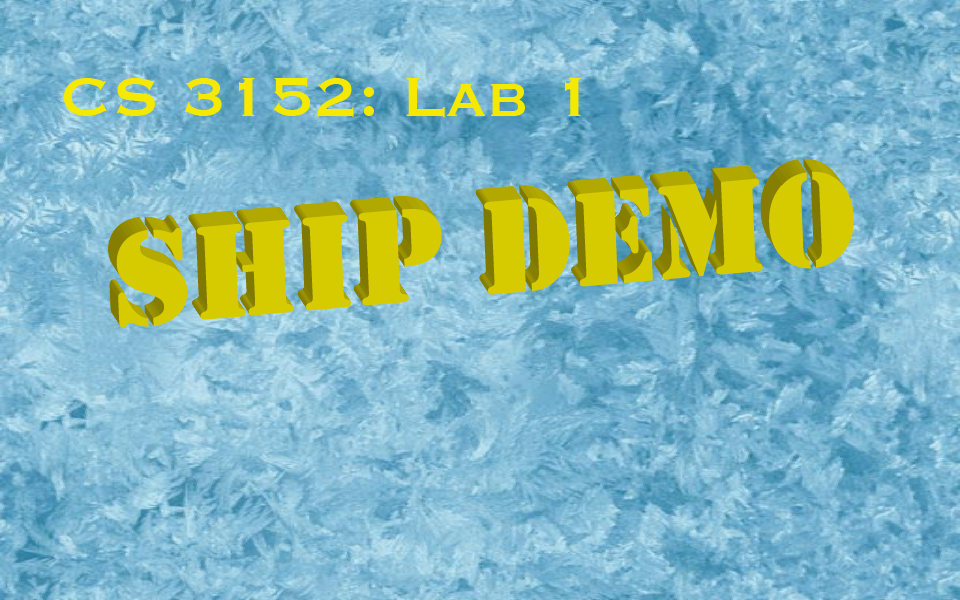
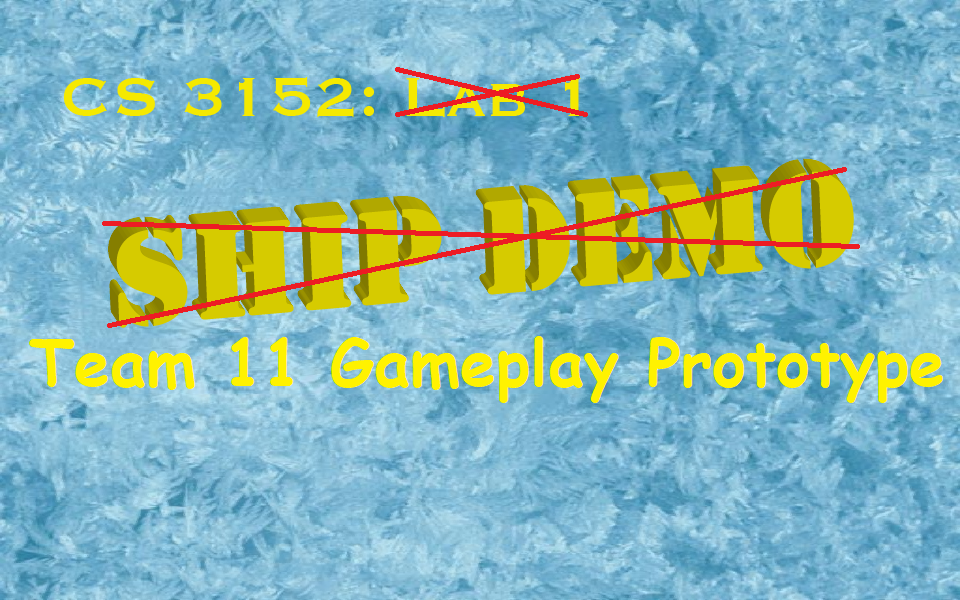
Added Wood skeleton code
- added wood class
- added wood/ship collision skeleton code
- edited loading screen

diff --git a/ShipDemo/core/src/edu/cornell/gdiac/shipdemo/CollisionController.java b/ShipDemo/core/src/edu/cornell/gdiac/shipdemo/CollisionController.java
@@ -67,40 +67,19 @@ public class CollisionController {
 	 *  collidee. Therefore, you should only call this method for one of the 
 	 *  ships, not both. Otherwise, you are processing the same collisions twice.
 	 * 
-	 *  @param ship1 First ship in candidate collision
-	 *  @param ship2 Second ship in candidate collision
+	 *  @param ship Ship in candidate collision
+	 *  @param wood Driftwood in candidate collision
 	 */
-	public void checkForCollision(Ship ship1, Ship ship2) {
+	public void checkForCollision(Ship ship, Wood wood) {
 		// Calculate the normal of the (possible) point of collision
-		normal.set(ship1.getPosition()).sub(ship2.getPosition());
+		normal.set(ship.getPosition()).sub(wood.getPosition());
 		float distance = normal.len();
-		float impactDistance = (ship1.getDiameter() + ship2.getDiameter()) / 2f;
+		float impactDistance = (ship.getDiameter() + wood.getDiameter()) / 2f;
 		normal.nor();
 
 		// If this normal is too small, there was a collision
 		if (distance < impactDistance) {
-			// "Roll back" time so that the ships are barely touching (e.g. point of impact).
-			// We need to use temp, as the method scl would change the contents of normal!
-			temp.set(normal).scl((impactDistance - distance) / 2);  // normal * (d1 - dist)/2
-			ship1.getPosition().add(temp);
-
-			temp.set(normal).scl((impactDistance - distance) / 2);  // normal * (d2 - dist)/2
-			ship2.getPosition().sub(temp);
-
-			// Now it is time for Newton's Law of Impact.
-			// Convert the two velocities into a single reference frame
-			velocity.set(ship1.getVelocity()).sub(ship2.getVelocity()); // v1-v2
-
-			// Compute the impulse (see Essential Math for Game Programmers)
-			float impulse = (-(1 + COLLISION_COEFF) * normal.dot(velocity)) /
-							(normal.dot(normal) * (1 / ship1.getMass() + 1 / ship2.getMass()));
-
-			// Change velocity of the two ships using this impulse
-			temp.set(normal).scl(impulse / ship1.getMass());
-			ship1.getVelocity().add(temp);
-
-			temp.set(normal).scl(impulse / ship2.getMass());
-			ship2.getVelocity().sub(temp);
+			// TODO: consume the wood and add it to the player's health
 		}
 	}
 
@@ -114,6 +93,7 @@ public class CollisionController {
 	 * @param bounds	The rectangular bounds of the playing field
 	 */
 	public void checkInBounds(Ship ship, Rectangle bounds) {
+		// TODO: Change this so the raft doesn't bounce off of walls like a bouncy ball
 		//Ensure the ship doesn't go out of view. Bounce off walls.
 		if (ship.getPosition().x <= bounds.x) {
 			ship.getVelocity().x = -ship.getVelocity().x;

diff --git a/ShipDemo/core/src/edu/cornell/gdiac/shipdemo/InputController.java b/ShipDemo/core/src/edu/cornell/gdiac/shipdemo/InputController.java
@@ -31,6 +31,7 @@ import com.badlogic.gdx.controllers.Controller;
  * the the keyboard.
  */
 public class InputController {
+	// TODO: Rewrite this class so that up/down/left/right move the player up/down/left/right, instead of rotating the player and moving them forward/backward.
 	/** How much forward are we going? */
 	private float forward;				
 	
@@ -83,7 +84,7 @@ public class InputController {
 	public void readInput() {
 		// Figure out, based on which player we are, which keys
 		// control our actions (depends on player).
-		// TODO: make it so that both arrow keys and WASD control the player
+		// TODO: make it so that both arrow keys and WASD can be used to control the player.
 		int up, left, right, down;
 		up    = Input.Keys.UP;
 		down  = Input.Keys.DOWN;

diff --git a/ShipDemo/core/src/edu/cornell/gdiac/shipdemo/Wood.java b/ShipDemo/core/src/edu/cornell/gdiac/shipdemo/Wood.java
@@ -1,0 +1,29 @@
+package edu.cornell.gdiac.shipdemo;
+
+import com.badlogic.gdx.graphics.Color;
+import com.badlogic.gdx.math.Vector2;
+
+/**
+ * Model class representing collectable driftwood.
+ */
+public class Wood {
+    // TODO: Implement whatever is needed here.
+
+    /**
+     * Creates a new wood pile at the given location.
+     *
+     * @param x The initial x-coordinate of the center
+     * @param y The initial y-coordinate of the center
+     */
+    public Wood(float x, float y) {
+        // TODO: implement
+    }
+
+    public Vector2 getPosition() {
+        return null;
+    }
+
+    public float getDiameter() {
+        return 0.0f;
+    }
+}

diff --git a/ShipDemo/core/src/edu/cornell/gdiac/shipdemo/Ship.java b/ShipDemo/core/src/edu/cornell/gdiac/shipdemo/Ship.java
@@ -29,7 +29,7 @@ import com.badlogic.gdx.graphics.*;
 import edu.cornell.gdiac.util.*;
 
 /**
- * Model class representing an alien ship.
+ * Model class representing a player-controlled raft.
  * 
  * Note that the graphics resources in this class are static.  That
  * is because all ships share the same image file, and it would waste
